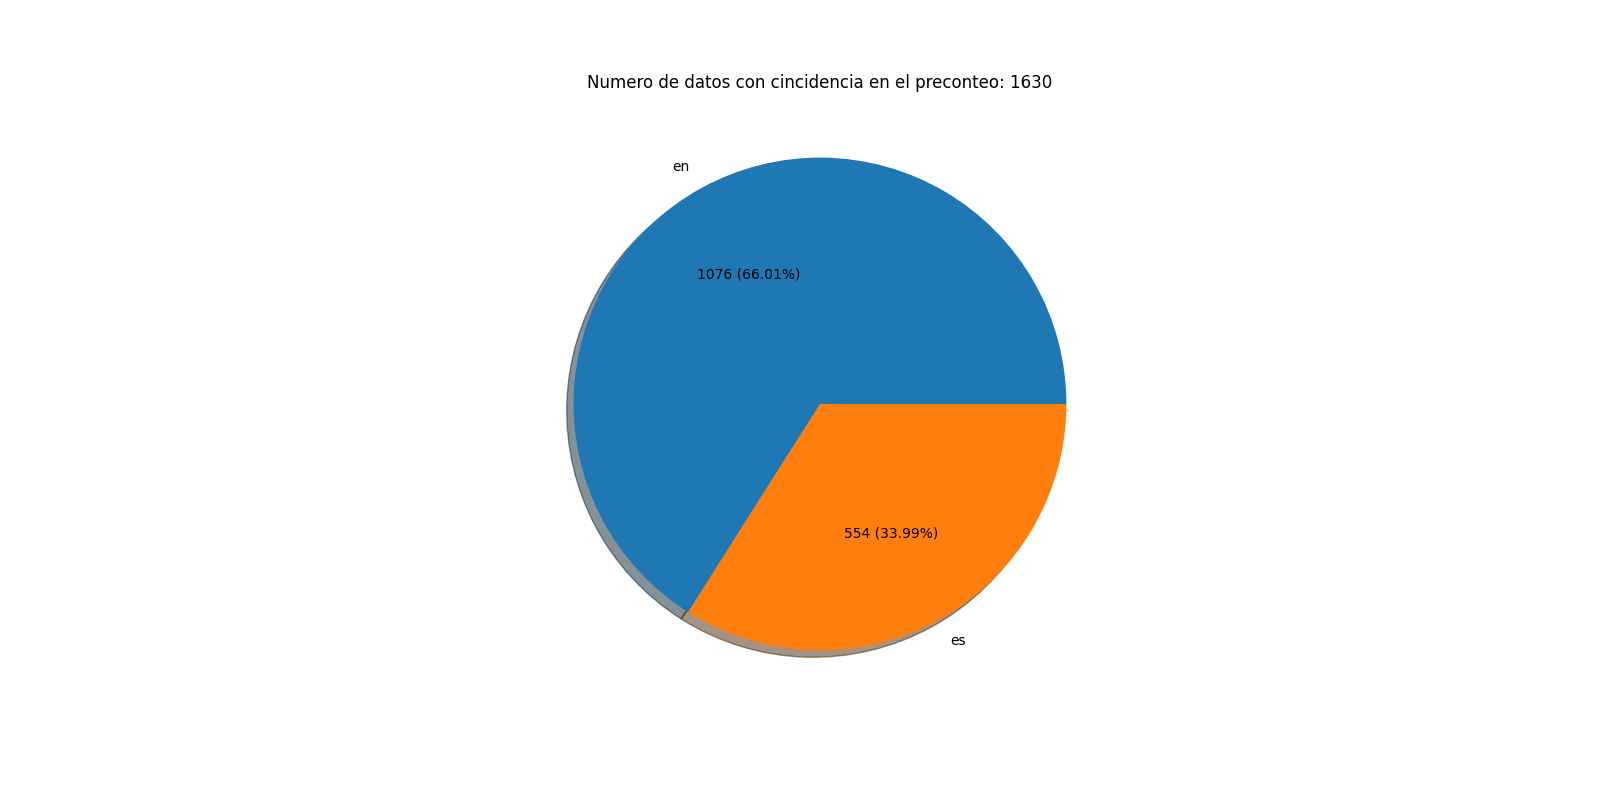
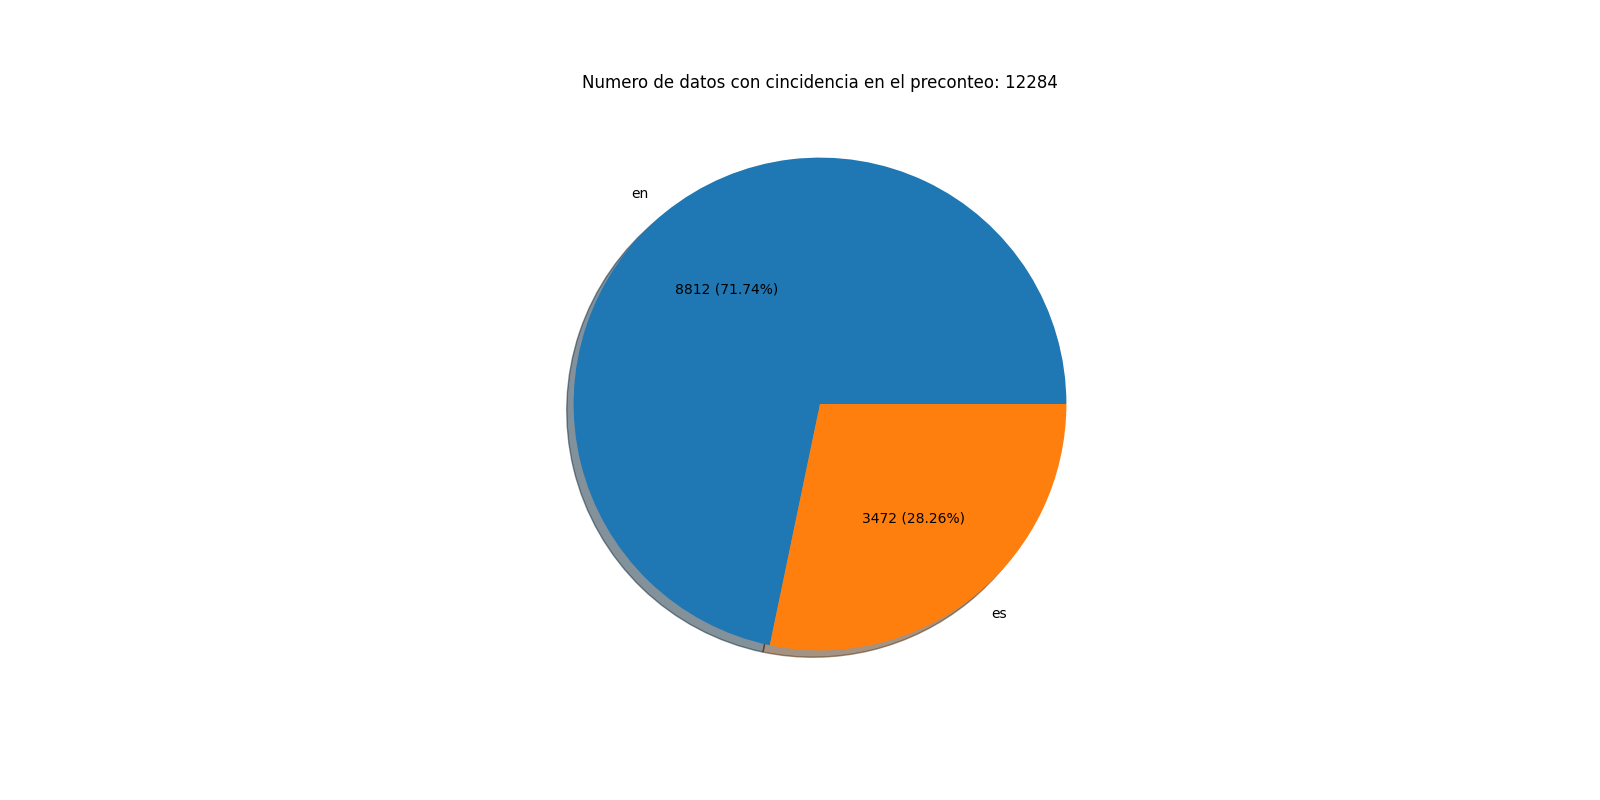
ya no me quedan mas ideas de como mejorar mas el filtrado de datos

diff --git a/captura_de_datos/data_analysis.py b/captura_de_datos/data_analysis.py
@@ -1,22 +1,39 @@
 import pandas as pd
 import matplotlib.pyplot as plt
 import os, sys, math, datetime, collections
+from gensim.parsing.porter import PorterStemmer
 
 # pip3 install -r requirements.txt <---- por si da flojera instalarlos a mano.
 
 
-usar_muestra = 1
+usar_muestra = 0
 originales = 'originales'  # <---- originales o arregaldos
 
+porter = PorterStemmer()
+
 tags_muerte = [
-    'mourning', ' rip ', 'rest in peace', 'glory of god', 'cry for the departure', 'luto', 'descansa en paz',
+    'mourning', 'rest in peace', 'glory of god', 'cry for the departure', 'luto', 'descansa en paz',
     'gloria de dios', 'lloran por la pertida', 'llorar por la partida', 'god be with you', 'que dios esté contigo',
     'sorry for your absence', 'lamento tu ausencia', 'no te preocupes por las lágrimas que derramas en su nombre',
     'lágrimas de dolor', 'tears of pain', 'rezo porque estés en el reino de dios',
     'i pray for you to be in the kingdom of god',
-    'nos veremos de nuevo en el reino de dios',
-    'i will see you again in the kingdom of god'
+    'nos veremos de nuevo en el reino de dios', 'en el reino de dios',
+    'i will see you again in the kingdom of god', 'the kingdom of god',
+    'santa gloria', 'holy glory', 'en paz descanse', 'en paz descansa',
+    'lamentamos la muerte', 'lamento la muerte', 'regret death',
+    'mourned the loss', 'lloró la pérdida', 'lloramos la pérdida', 'lloro la perdida', 'lloramos la perdida',
+    'lamentamos la pérdida', 'lamento la pérdida', 'lamentamos la perdida', 'lamento la perdida',
+    'lamentamos su muerte', 'lamento su muerte', 'regret her death', 'regret his death',
+    'mourned his loss', 'mourned her loss', 'lloró su pérdida', 'lloramos su pérdida', 'lloro su perdida',
+    'lloramos la perdida',
+    'lamentamos su pérdida', 'lamento su pérdida', 'lamentamos su perdida', 'lamento su perdida',
 ]
+
+tags_muerte = list(porter.stem_documents(tags_muerte))
+tags_muerte.append(' rip ')
+tags_muerte.append(' qdep ')
+tags_muerte.append(' r.i.p ')
+tags_muerte.append(' q.d.e.p ')
 
 output_path1 = "./twitter_data/datos_en_bruto/catched_tweets_originales.csv"
 output_path2 = "./twitter_data/datos_en_bruto/catched_tweets_sample.csv"
@@ -51,7 +68,7 @@ for i, row in df.iterrows():
     sys.stdout.flush()
 
     global_count += 1
-    text = str(df.at[i, 'text']).lower()
+    text = porter.stem_sentence(str(df.at[i, 'text']).lower())
     country = df.at[i, 'country']
     date_str = df.at[i, 'created_at']
     language = df.at[i, 'lang']

diff --git a/captura_de_datos/filter_data.py b/captura_de_datos/filter_data.py
@@ -1,3 +1,4 @@
+from gensim.parsing.porter import PorterStemmer
 import pandas as pd
 import numpy as np
 import sys, csv
@@ -15,15 +16,31 @@ print("\nCargando data frame principal")
 df = pd.read_csv(output_path1, encoding='utf8', dtype=str, engine='python')
 df['mourning'] = np.nan
 
+porter = PorterStemmer()
+
 tags_muerte = [
-    'mourning', ' rip ', 'rest in peace', 'glory of god', 'cry for the departure', 'luto', 'descansa en paz',
+    'mourning', 'rest in peace', 'glory of god', 'cry for the departure', 'luto', 'descansa en paz',
     'gloria de dios', 'lloran por la pertida', 'llorar por la partida', 'god be with you', 'que dios esté contigo',
     'sorry for your absence', 'lamento tu ausencia', 'no te preocupes por las lágrimas que derramas en su nombre',
     'lágrimas de dolor', 'tears of pain', 'rezo porque estés en el reino de dios',
     'i pray for you to be in the kingdom of god',
-    'nos veremos de nuevo en el reino de dios',
-    'i will see you again in the kingdom of god'
+    'nos veremos de nuevo en el reino de dios', 'en el reino de dios',
+    'i will see you again in the kingdom of god', 'the kingdom of god',
+    'santa gloria', 'holy glory', 'en paz descanse', 'en paz descansa',
+    'lamentamos la muerte', 'lamento la muerte', 'regret death',
+    'mourned the loss', 'lloró la pérdida', 'lloramos la pérdida', 'lloro la perdida', 'lloramos la perdida',
+    'lamentamos la pérdida', 'lamento la pérdida', 'lamentamos la perdida', 'lamento la perdida',
+    'lamentamos su muerte', 'lamento su muerte', 'regret her death', 'regret his death',
+    'mourned his loss', 'mourned her loss', 'lloró su pérdida', 'lloramos su pérdida', 'lloro su perdida',
+    'lloramos la perdida',
+    'lamentamos su pérdida', 'lamento su pérdida', 'lamentamos su perdida', 'lamento su perdida',
 ]
+
+tags_muerte = list(porter.stem_documents(tags_muerte))
+tags_muerte.append(' rip ')
+tags_muerte.append(' qdep ')
+tags_muerte.append(' r.i.p ')
+tags_muerte.append(' q.d.e.p ')
 
 print("Escribiendo archivos complementarios")
 
@@ -52,7 +69,7 @@ for i, row in df.iterrows():
     sys.stdout.flush()
 
     language = df.at[i, 'lang']
-    text = str(df.at[i, 'text']).lower()
+    text = porter.stem_sentence(str(df.at[i, 'text']).lower())
     languages_list = ['en', 'es']
 
     if any(word in text for word in tags_muerte):
